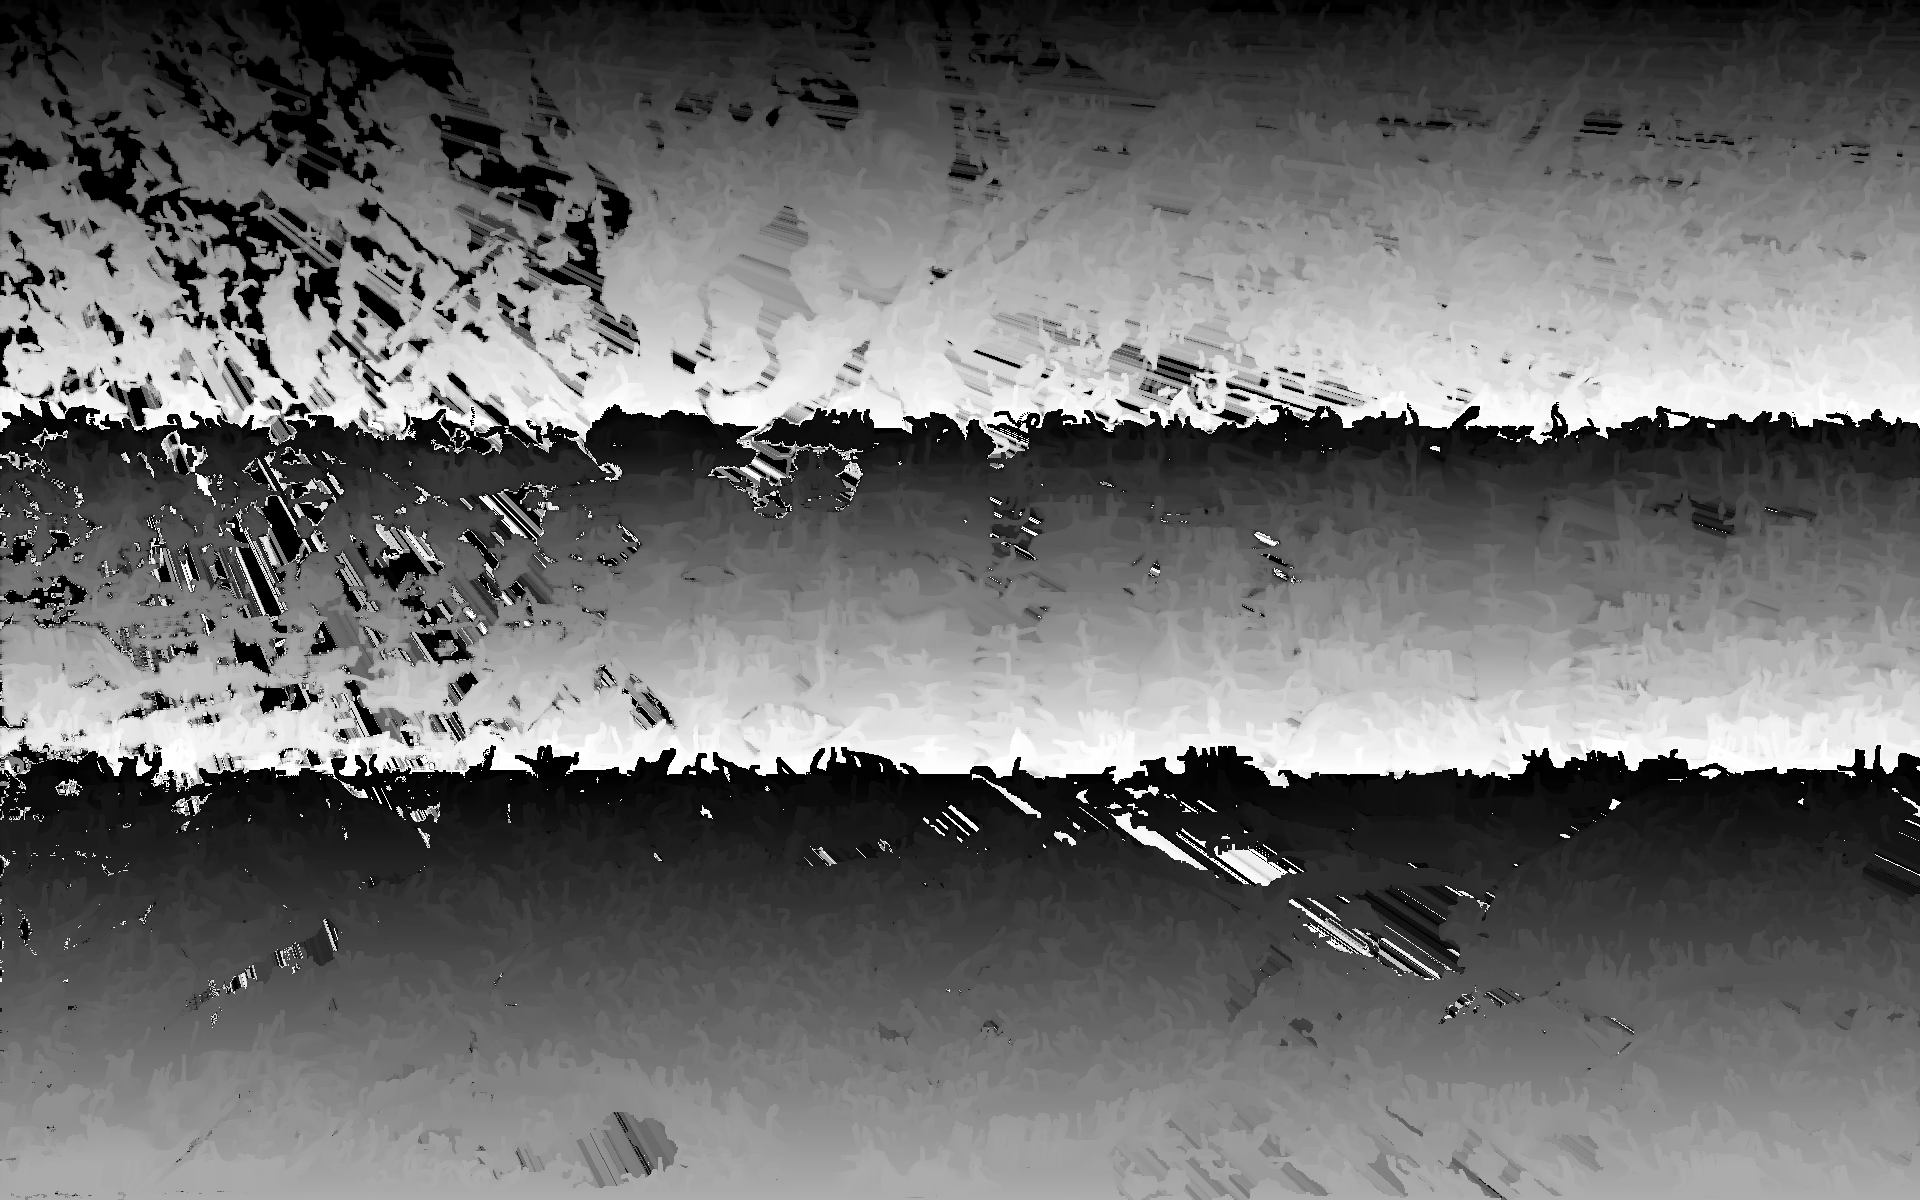
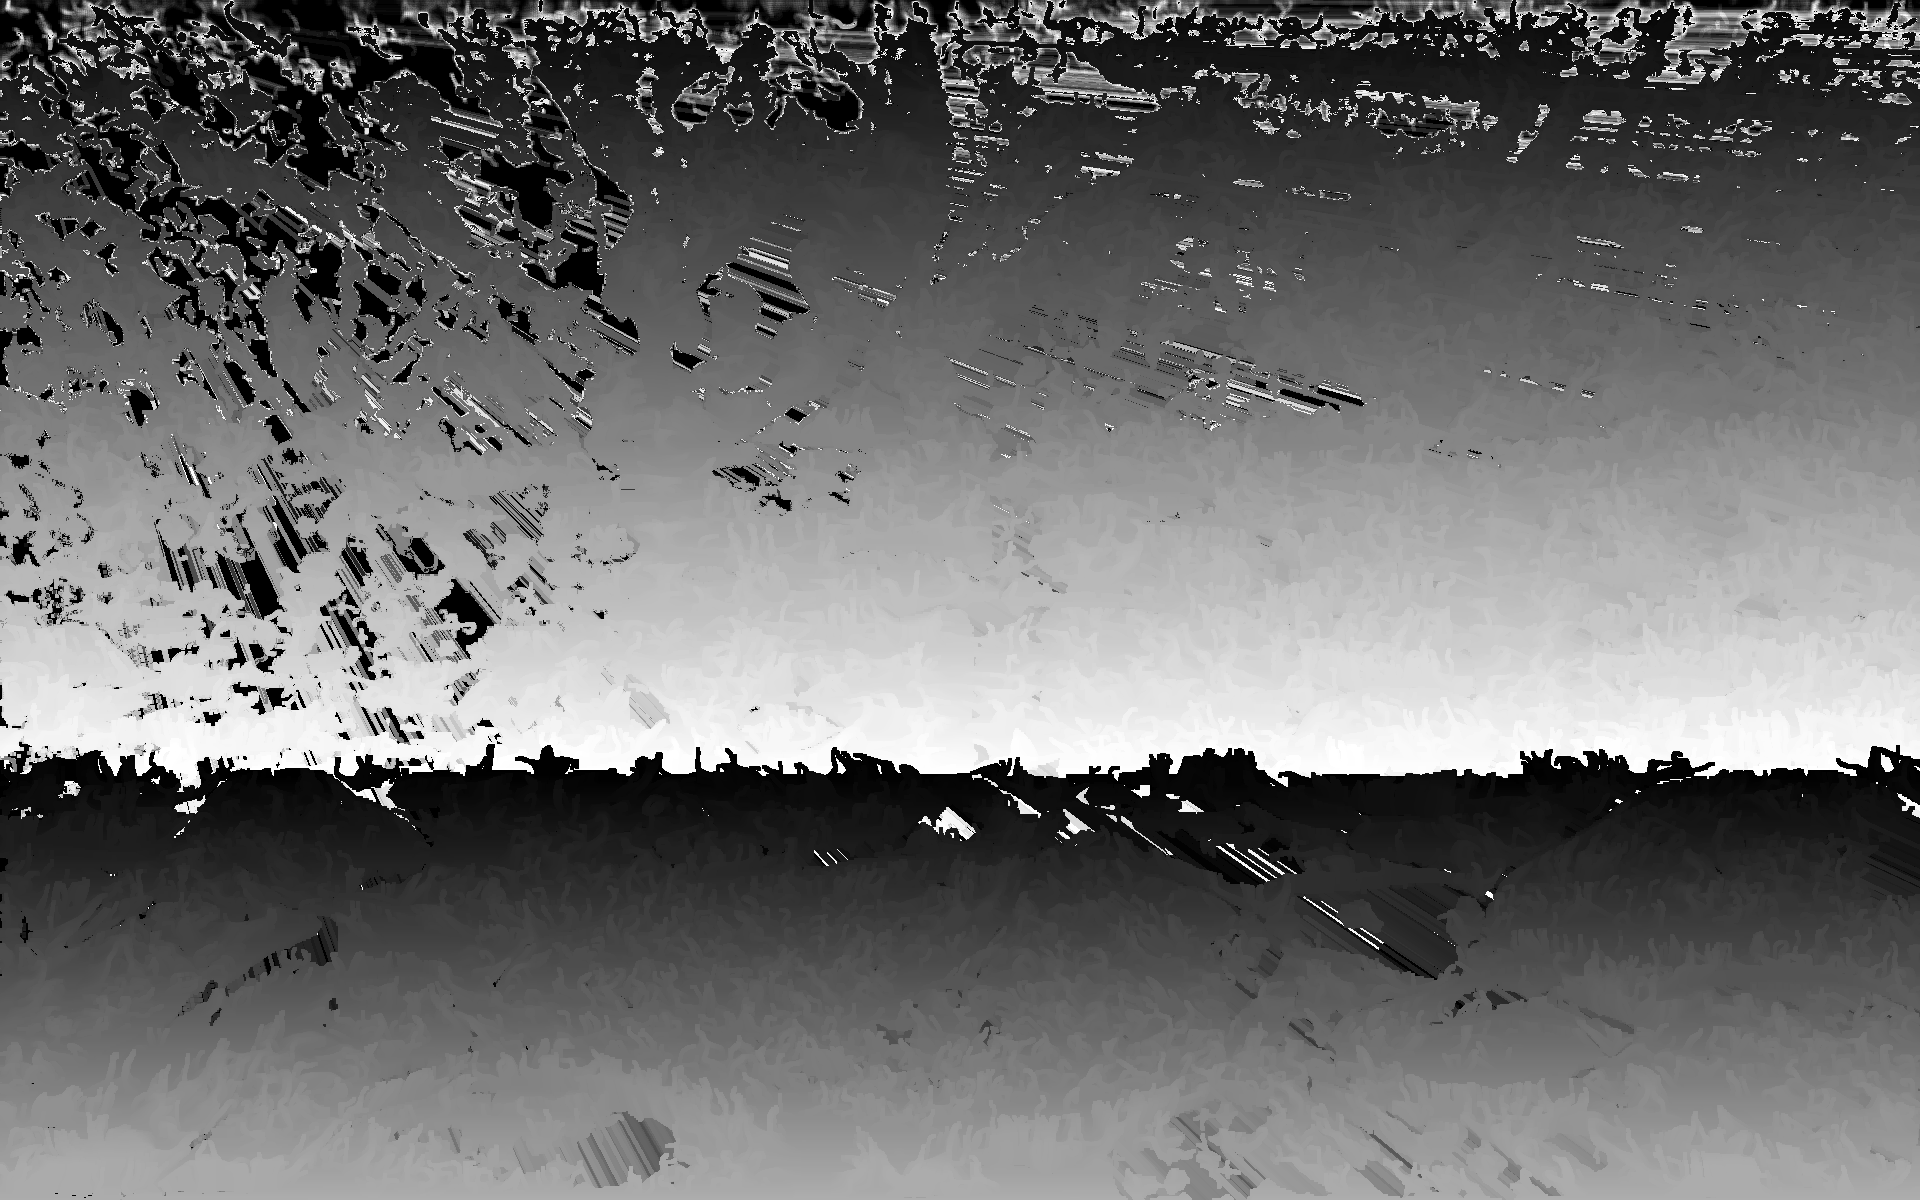
Improving image shading

diff --git a/src/main.cpp b/src/main.cpp
@@ -52,6 +52,7 @@ int main(int argc, const char **argv) {
         return -1;
     }
     Texture *height_texture = new Texture(height_texture_image.cols, height_texture_image.rows, height_texture_image);
+    //Texture *height_texture = nullptr;
 
     cv::Mat opacity_texture_image = cv::imread(texture_path + "opacity.png", cv::IMREAD_GRAYSCALE);
     if (opacity_texture_image.empty()) {
@@ -74,8 +75,8 @@ int main(int argc, const char **argv) {
 
     // Shade the output image
     BlinnPhongShader shader = BlinnPhongShader();
-    Eigen::Vector3f view_pos = Eigen::Vector3f(input_image.cols / 2, input_image.rows / 2, 5);
-    Eigen::Vector3f light_pos = Eigen::Vector3f(input_image.cols / 2, input_image.rows / 2, 5);
+    Eigen::Vector3f view_pos = Eigen::Vector3f(input_image.cols / 2, input_image.rows / 2, 300);
+    Eigen::Vector3f light_pos = Eigen::Vector3f(input_image.cols / 2, input_image.rows / 2, 300);
     RGBImage *shaded_image = paint.apply_lighting(output_image, output_height_map, &shader, view_pos, light_pos);
 
     // Save the shaded image
@@ -93,6 +94,22 @@ int main(int argc, const char **argv) {
     cv::imwrite(height_path + height_file, *cv_output_height_map);
     cout << "Height map saved to: " << height_path + height_file << std::endl;
 
+    #ifdef ANIMATE
+        view_pos = Eigen::Vector3f(input_image.cols / 2, input_image.rows / 2, 5);
+        for (int i = 0; i < input_image.cols; i++) {
+            light_pos = Eigen::Vector3f(i, 0, 300);
+            shaded_image = paint.apply_lighting(output_image, output_height_map, &shader, view_pos, light_pos);
+            cv_output_shaded_image = shaded_image->to_cv_mat();
+            
+            cv::imshow("shaded_image", *cv_output_shaded_image);
+
+            cv::waitKey(1);
+
+            delete shaded_image;
+            delete cv_output_shaded_image;
+        }
+    #endif
+
     // Free memory
     delete output_image;
     delete output_height_map;
@@ -103,8 +120,8 @@ int main(int argc, const char **argv) {
     delete shaded_image;
     delete cv_output_shaded_image;
 
-    delete height_texture;
-    delete opacity_texture;
+    if (height_texture != nullptr) delete height_texture;
+    if (opacity_texture != nullptr) delete opacity_texture;
 
     return 0;
 }

diff --git a/src/paint.cpp b/src/paint.cpp
@@ -170,21 +170,19 @@ void Paint::paint_layer(RGBImage *ref_image, RGBImage *canvas, GrayImage *height
     for (Stroke stroke : strokes) {
         this->render_stroke(canvas, height_map, &stroke, &brush);
 
-        #ifdef ANIMATE
-            cv::Mat *cv_canvas = canvas->to_cv_mat();
-            cv::imshow("canvas", *cv_canvas);
-            cv::waitKey(1);
-            delete cv_canvas;
-        #endif
+        // #ifdef ANIMATE
+        //     cv::Mat *cv_canvas = canvas->to_cv_mat();
+        //     cv::imshow("canvas", *cv_canvas);
+        //     cv::waitKey(1);
+        //     delete cv_canvas;
+        // #endif
     }    
 }
 
 // TODO: Move this into the GrayImage class?
 float Paint::compose_height(float stroke_height, float stroke_opacity, float current_height) {
-    // float stroke_height = 1.0f; // TODO: Make this not constant
-    // float alpha = 0.5f; // TODO: Get this from somewhere else
+    float height_blend = ImageUtil::alpha_blend(stroke_height, current_height, stroke_opacity / 255);
 
-    float height_blend = ImageUtil::alpha_blend(stroke_height, current_height, stroke_opacity);
     return height_blend + 0.001f * this->cur_counter;
 }
 

diff --git a/src/stroke.cpp b/src/stroke.cpp
@@ -239,17 +239,27 @@ void Stroke::compute_bounding_box(int width, int height) {
 }
 
 float Stroke::get_height(int x, int y) {
+    // Default (constant height)
+    if (this->height_texture == nullptr) {
+        return 1.0f;
+    }
+
     // Convert (x, y) coordinate to (u, v) coordinates based on bounding box
     Eigen::Vector2f uv_coords = this->get_uv_coords(x, y);
 
     // Return the height value from the height texture
-    return (this->height_texture != nullptr ) ? this->height_texture->get_texture_value(uv_coords) : 1.0f;
+    return this->height_texture->get_texture_value(uv_coords);
 }
 
 float Stroke::get_opacity(int x, int y) {
+    // Default (constant opacity)
+    if (this->opacity_texture == nullptr) {
+        return 125.0f;
+    }
+
     // Convert (x, y) coordinate to (u, v) coordinates based on bounding box
     Eigen::Vector2f uv_coords = this->get_uv_coords(x, y);
 
     // Return the height value from the height texture
-    return (this->opacity_texture != nullptr) ? this->opacity_texture->get_texture_value(uv_coords) : 0.5f;
+    return this->opacity_texture->get_texture_value(uv_coords);
 }

diff --git a/src/texture.cpp b/src/texture.cpp
@@ -11,10 +11,6 @@ float Texture::get_texture_value(Eigen::Vector2f uv_coords) {
     int y0 = std::floor(y);
     int y1 = std::min(y0 + 1, this->get_height());
 
-    // TODO: Delete
-    //std::cout << "width: " << this->get_width() << " height: " << this->get_height() << std::endl;
-    // std::cout << "x0: " << x0 << " y0: " << y0 << " x1: " << x1 << " y1: " << y1 << std::endl;
-
     float bot_left_val  = this->texture->get_pixel(x0, y0);
     float bot_right_val = this->texture->get_pixel(x1, y0);
 

diff --git a/src/shader.cpp b/src/shader.cpp
@@ -3,7 +3,7 @@
 Eigen::Vector3f BlinnPhongShader::shade(Eigen::Vector3f colour, Eigen::Vector3f pos, Eigen::Vector3f light_pos, Eigen::Vector3f view_pos, Eigen::Vector3f normal) {
     float ka = 0.1f;
     float kd = 0.6f;
-    float ks = 0.8f;
+    float ks = 0.3f;
 
     Eigen::Vector3f amb_intensity = Eigen::Vector3f(1.0f, 1.0f, 1.0f);
     Eigen::Vector3f intensity = Eigen::Vector3f(1.0f, 1.0f, 1.0f);
